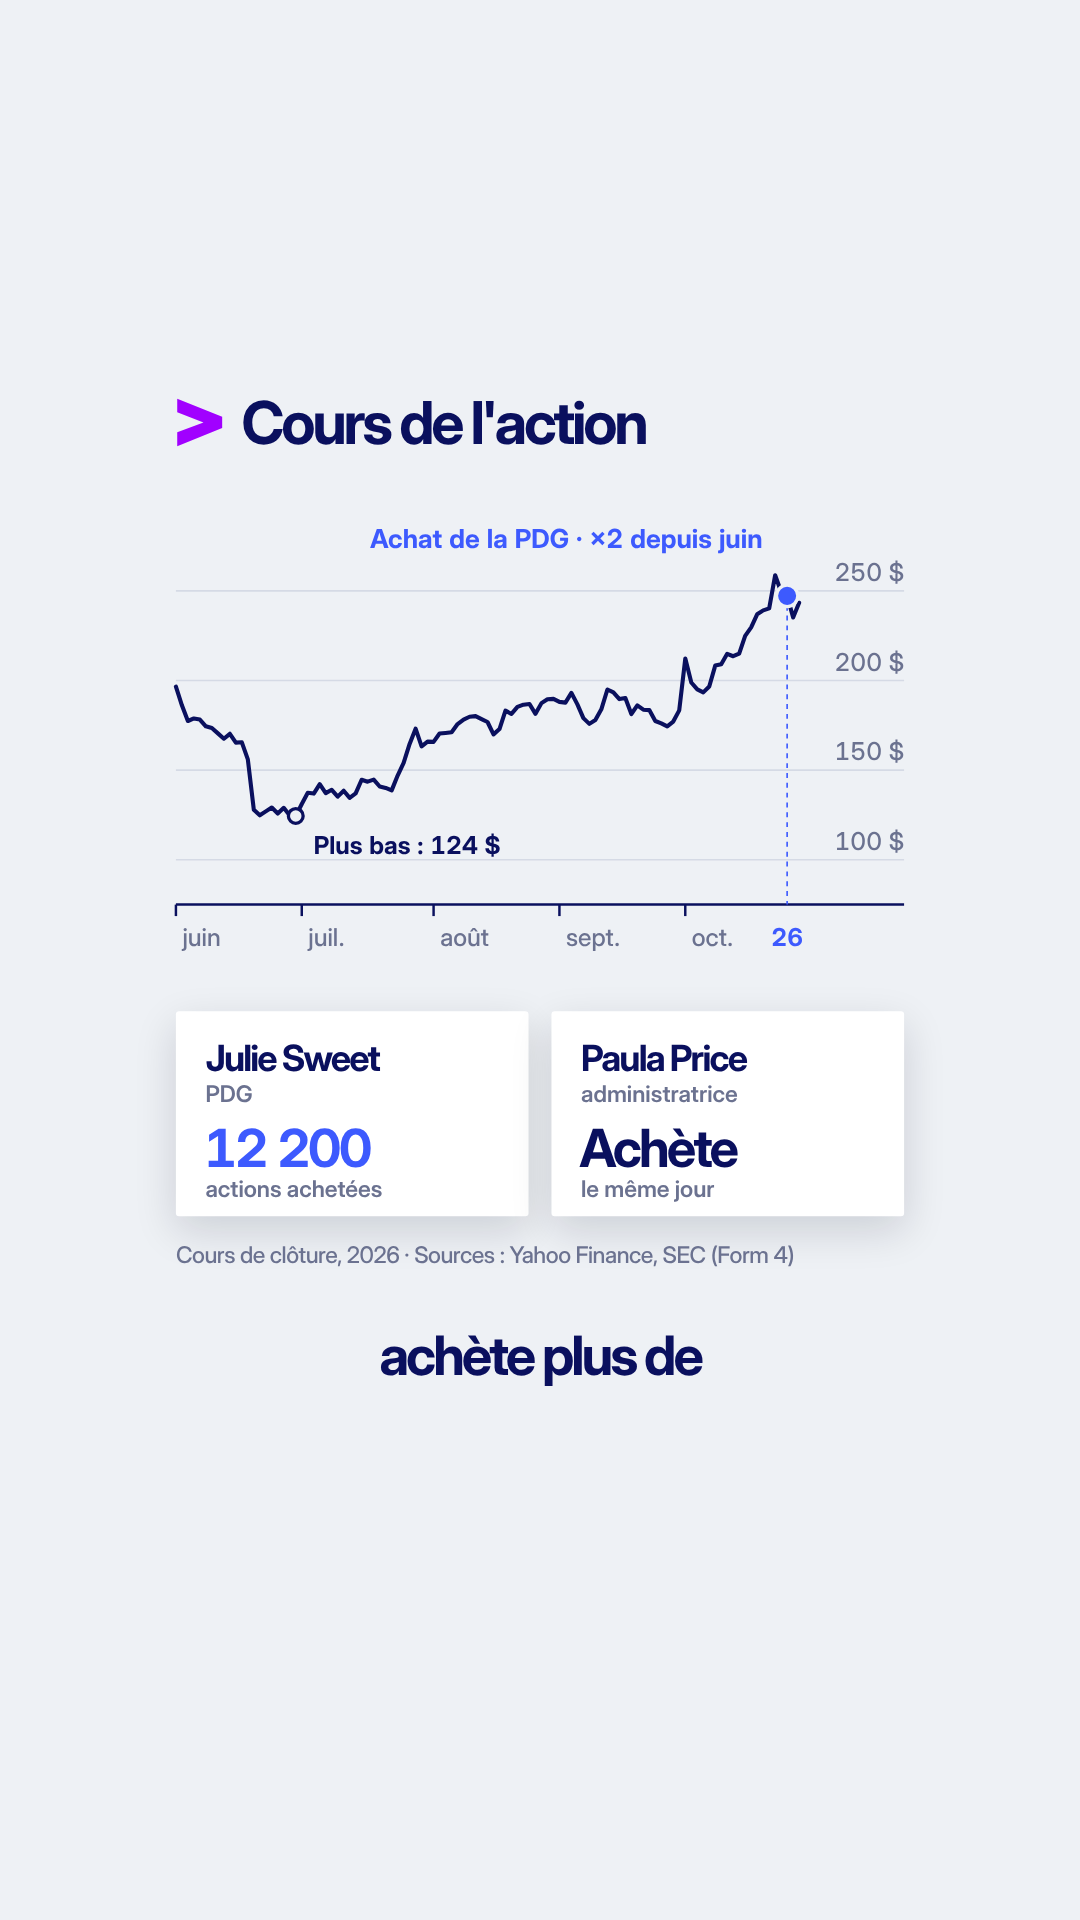
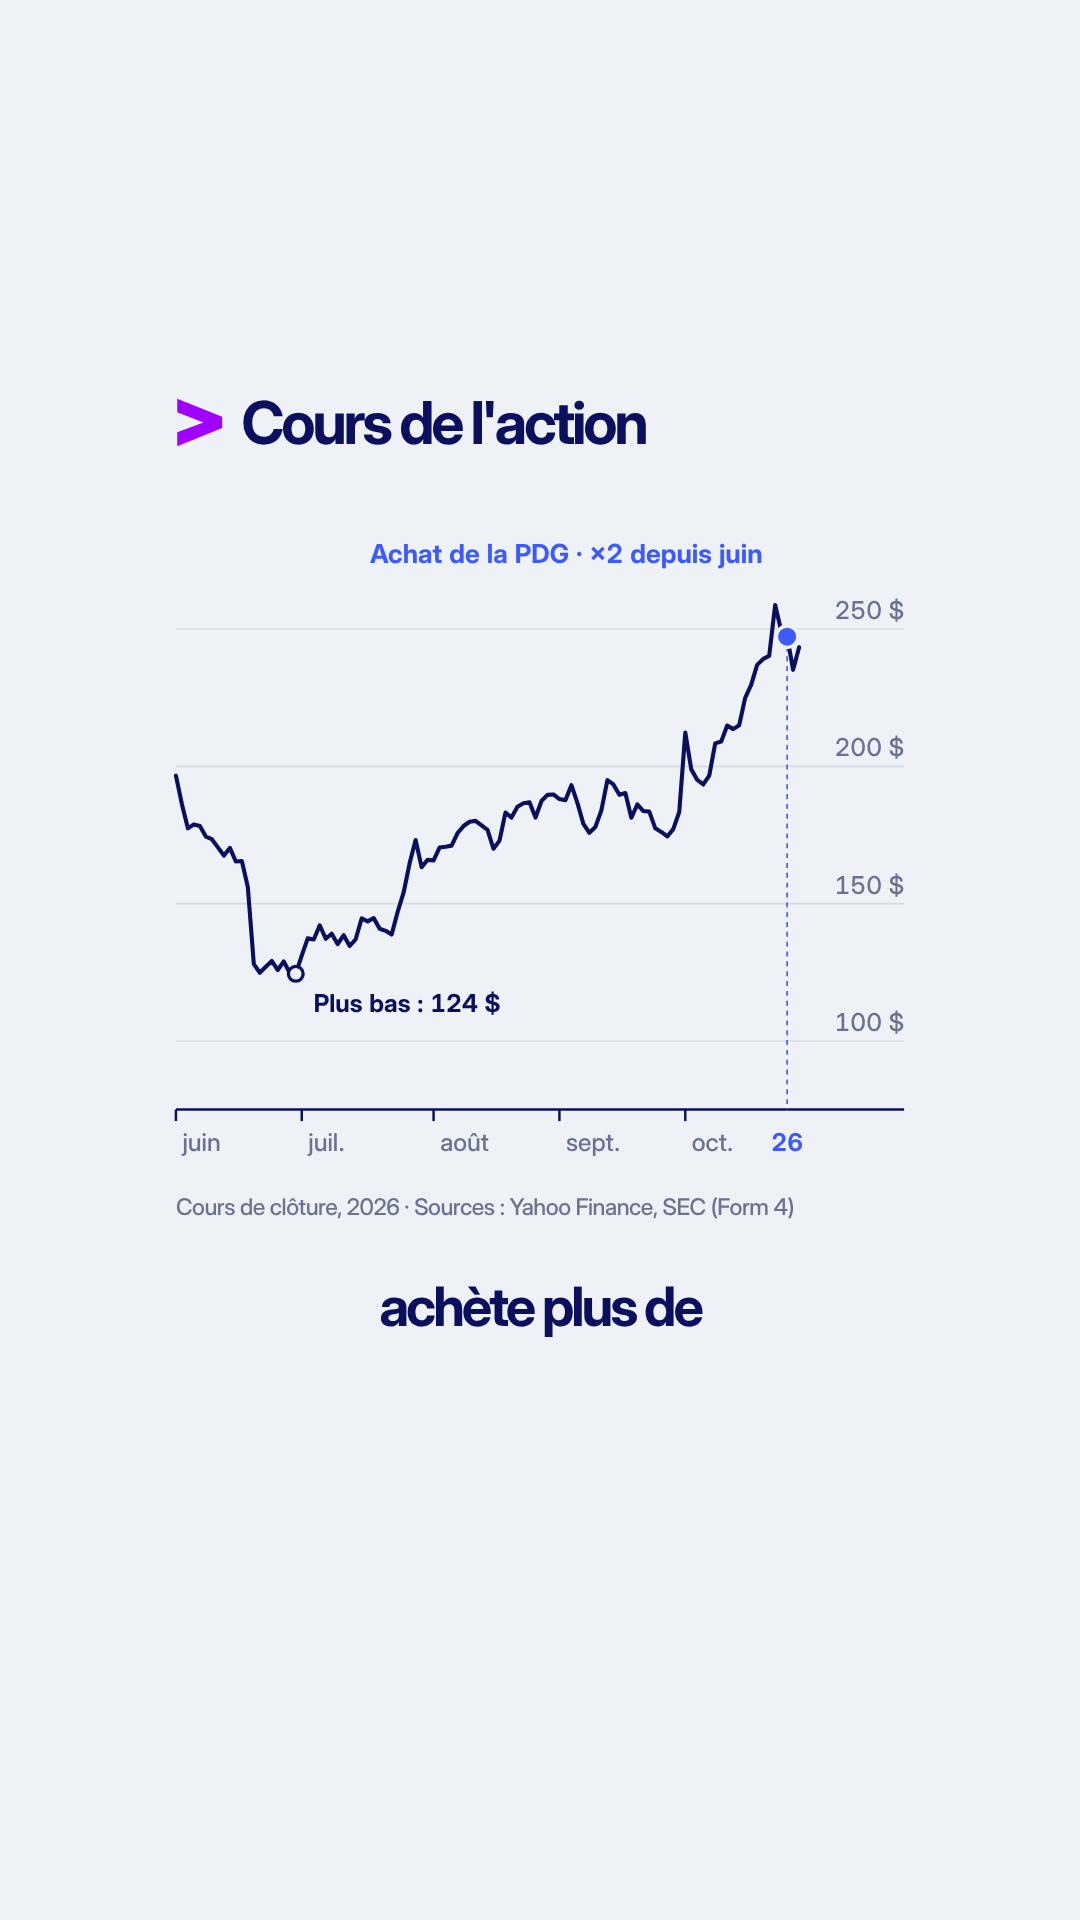
Reel Accenture : maquette du graphique sans cartes (1 écran = 1 info), règle ajoutée à la trame
Claude-Session: https://claude.ai/code/session_0172khLHKtjafTGZdmNpPSJZ

diff --git a/reel-accenture-initie/maquette-graphique.html b/reel-accenture-initie/maquette-graphique.html
@@ -8,7 +8,7 @@
   /* Maquette du nouveau graphique boursier « The Economist version FinanceData » (scène du 26 octobre).
      Zone de tracé à part de la gouttière des valeurs : la courbe ne touche jamais les chiffres de l'axe.
      Valeurs posées au-dessus des lignes de grille à droite, mois en bas avec petites graduations, ligne du bas en marine.
-     Une seule couleur (bleu FinanceData) pour l'annotation clé ; le reste en marine et gris. Annotations courtes, avec filet de rappel. */
+     Une seule couleur (bleu FinanceData) pour l'annotation clé ; le reste en marine et gris. 1 écran = 1 info : juste la courbe annotée, rien en dessous. */
   @font-face { font-family: "Display"; src: url("assets/fonts/inter-display-latin-var.woff2"); font-weight: 100 900; }
   * { margin: 0; padding: 0; box-sizing: border-box; }
   body { width: 1080px; height: 1920px; background: #eef1f5; color: #0a105e; font-family: "Display"; font-variation-settings: "opsz" 32; -webkit-font-smoothing: antialiased; position: relative; overflow: hidden; }
@@ -34,7 +34,7 @@
 
   // repère : zone de tracé (x 0 → PW) séparée de la gouttière des valeurs (PW → W)
   var S = window.ACN.filter(function (r) { return r[0] >= "2026-06-01" && r[0] <= "2026-10-28"; }), n = S.length;
-  var W = 888, PW = 760, H = 470, TOP = 440, g = document.createElementNS(NS, "svg");
+  var W = 888, PW = 760, H = 720, TOP = 440, g = document.createElementNS(NS, "svg");
   g.setAttribute("width", W); g.setAttribute("height", H + 90); g.style.left = "96px"; g.style.top = TOP + "px"; st.appendChild(g);
   var X = function (i) { return i / (n - 1) * PW; }, Y = function (v) { return H - (v - 75) / 215 * H; };
   [100, 150, 200, 250].forEach(function (v) {
@@ -66,14 +66,8 @@
   el(g, "text", { x: xb - 30, y: Y(274), "font-size": 32, fill: BLUE, "font-weight": 700, "text-anchor": "end" }, "Achat de la PDG · ×2 depuis juin");
   el(g, "text", { x: xb, y: H + 50, "font-size": 30, fill: BLUE, "font-weight": 700, "text-anchor": "middle" }, "26");
 
-  // cartes : qui a acheté
-  div("<div style='position:absolute; left:36px; top:30px; font-size:44px; font-weight:700; letter-spacing:-.05em'>Julie Sweet</div><div style='position:absolute; left:36px; top:84px; font-size:28px; font-weight:600; color:#6b7290'>PDG</div><div style='position:absolute; left:34px; top:128px; font-size:64px; font-weight:700; letter-spacing:-.055em; color:" + BLUE + "; font-feature-settings:\"tnum\" 1'>12 200</div><div style='position:absolute; left:36px; top:200px; font-size:28px; font-weight:600; color:#6b7290'>actions achetées</div>", "left:96px; top:1040px; width:430px; height:250px");
-  st.lastChild.className = "card";
-  div("<div style='position:absolute; left:36px; top:30px; font-size:44px; font-weight:700; letter-spacing:-.05em'>Paula Price</div><div style='position:absolute; left:36px; top:84px; font-size:28px; font-weight:600; color:#6b7290'>administratrice</div><div style='position:absolute; left:34px; top:128px; font-size:64px; font-weight:700; letter-spacing:-.055em'>Achète</div><div style='position:absolute; left:36px; top:200px; font-size:28px; font-weight:600; color:#6b7290'>le même jour</div>", "left:554px; top:1040px; width:430px; height:250px");
-  st.lastChild.className = "card";
-
-  div("Cours de clôture, 2026 · Sources : Yahoo Finance, SEC (Form 4)", "left:96px; top:1320px; font-size:28px; font-weight:500; color:#6b7290; letter-spacing:-.02em");
-  div("<span style='font-weight:700; font-size:66px; letter-spacing:-.055em; color:#0a105e'>achète plus de</span>", "left:0; right:0; top:1420px; text-align:center");
+  div("Cours de clôture, 2026 · Sources : Yahoo Finance, SEC (Form 4)", "left:96px; top:1262px; font-size:28px; font-weight:500; color:#6b7290; letter-spacing:-.02em");
+  div("<span style='font-weight:700; font-size:66px; letter-spacing:-.055em; color:#0a105e'>achète plus de</span>", "left:0; right:0; top:1360px; text-align:center");
 </script>
 </body>
 </html>

diff --git a/styles/financedata/TRAME.md b/styles/financedata/TRAME.md
@@ -48,6 +48,12 @@ Principes de la trame :
 - le hook et le contraste sur le **même fond blanc à foyer** (dégradé radial blanc → gris bleuté sur les bords), puis rupture nette vers le bleu nuit ;
 - chaque chiffre arrive avec un mouvement franc (compteur, « +25 % » qui tombe et rebondit, « ? » qui arrivent en grand puis se posent).
 
+## Graphiques boursiers (validé sur Accenture)
+- **1 écran = 1 info** : juste la courbe et ses annotations, aucune carte ni cadre en dessous ; la courbe prend toute la hauteur libre ;
+- courbe marine épaisse, sans aire ni dégradé ; zone de tracé séparée de la gouttière des valeurs à droite : la courbe ne touche jamais les chiffres ;
+- valeurs avec unité (« 250 $ ») posées au-dessus de leur ligne de grille, ligne de base marine avec petites graduations, mois en dessous ;
+- au plus deux annotations courtes, chacune dans une zone vide (jamais sur la courbe ni sur une ligne de grille) : une neutre en marine (« Plus bas : 124 $ »), une clé dans la seule couleur de l'écran, avec la date repérée sous l'axe.
+
 ## Les trois familles d'écrans
 
 ### 1. Graphique « The Economist version FinanceData »
